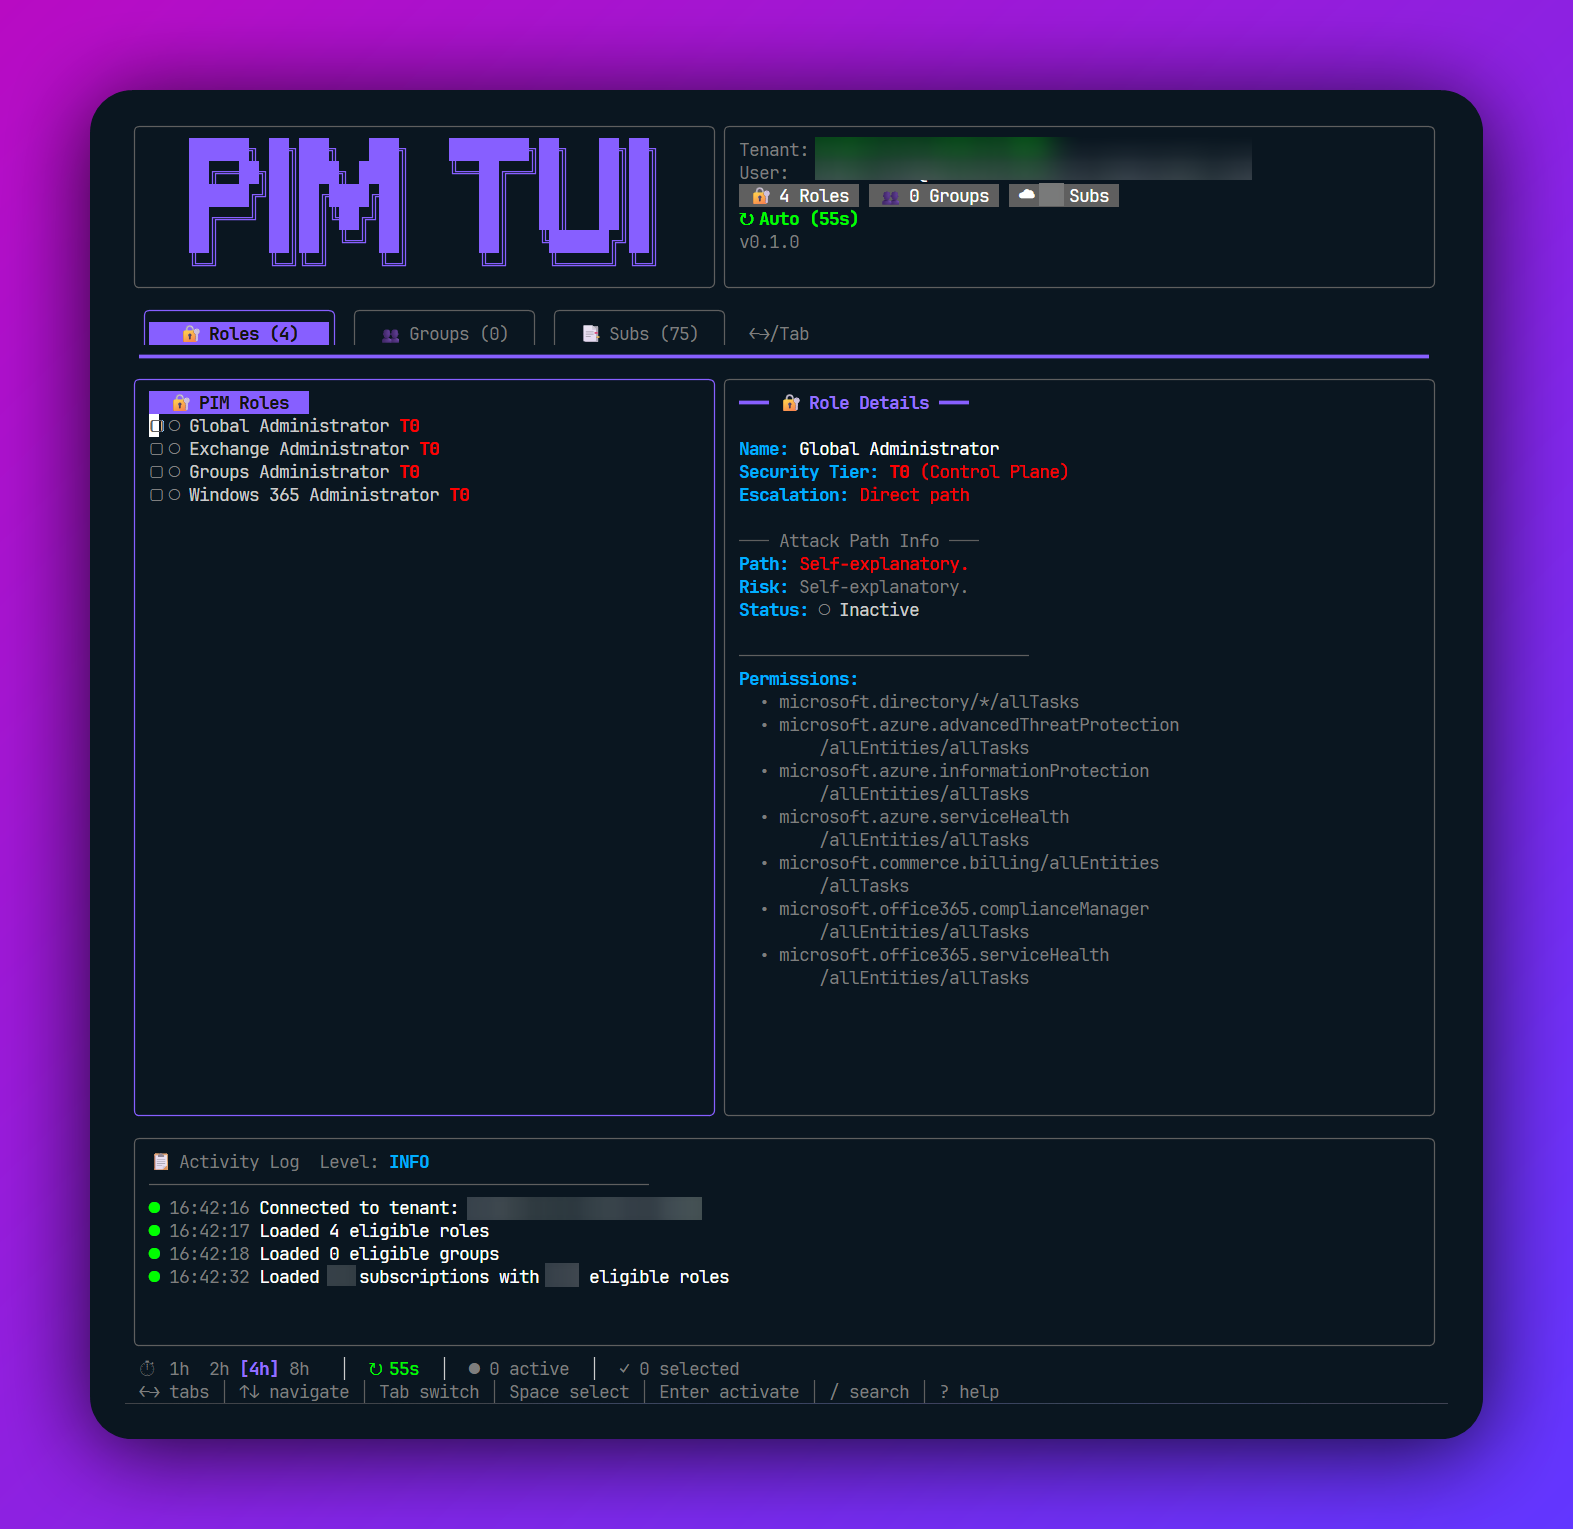
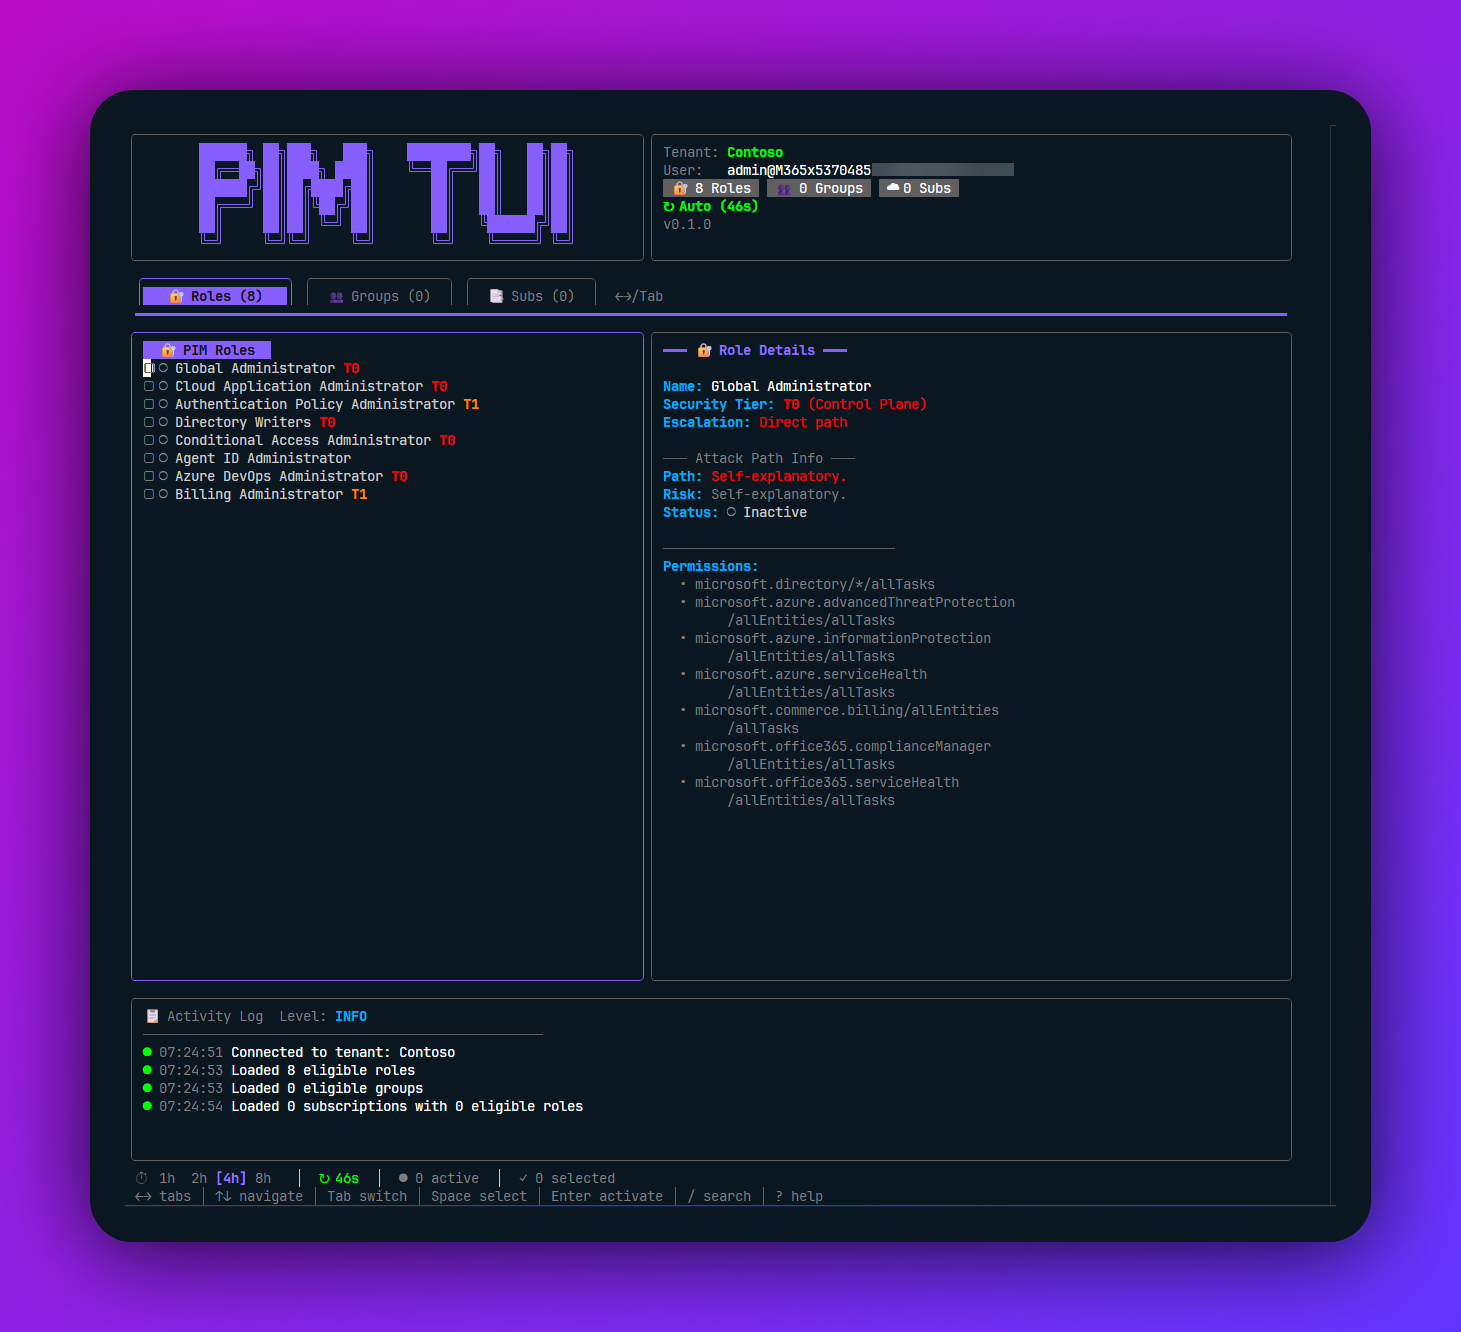
Entferne das Bild "Processing Activation" aus dem README.md und aktualisiere die Bilder für verbesserte visuelle Darstellung

Changed region(s): [[0.0308, 0.0616, 0.9548, 0.9542], [0.6468, 0.3078, 0.6776, 0.3386]]

diff --git a/README.md b/README.md
@@ -27,10 +27,6 @@ Activate Entra ID roles, PIM groups, and Azure RBAC roles across Lighthouse tena
 ![Activation Confirmation](media/activation.png)
 *Batch activation with Tier 0 warning and duration selection*
 
-### Processing
-![Processing Activation](media/process_activation.png)
-*Real-time progress during role activation*
-
 ### Tree View
 ![Role Flow](media/flow.png)
 *Visual hierarchy showing active roles and their relationship to the tenant*
